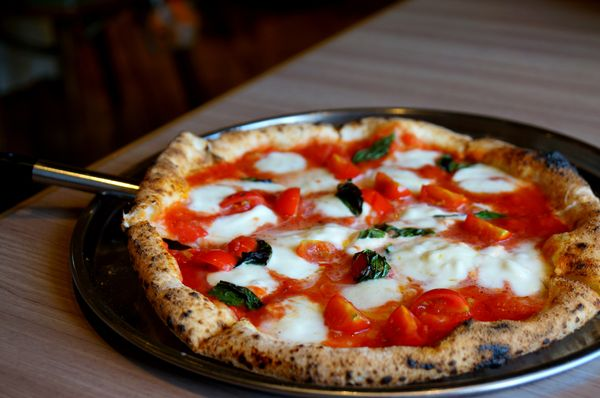
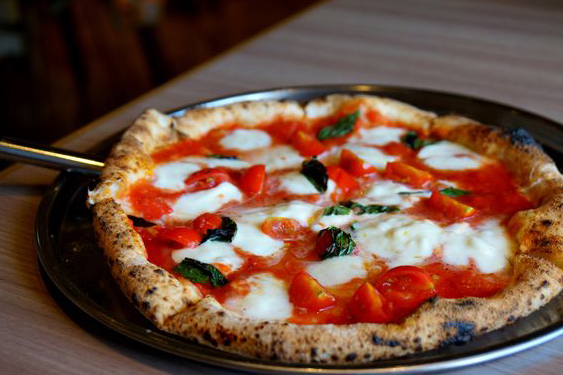
redimensionnement image

diff --git a/vue/recipeoftheday.php b/vue/recipeoftheday.php
@@ -6,7 +6,7 @@ echo"<div class='leftcolumn'>";
 foreach ($starrecipe as $data){
     echo"<div class='card'>
     <h2>".$data['nom_recettes']."</h2>
-    <div class='fakeimg'><img src=".$data['image_recettes']." alt=".$data['nom_recettes']." style=' background-size:100% auto ; height : 100%; width:100%; display:block'></div>
+    <div class='fakeimg'><img src=".$data['image_recettes']." alt=".$data['nom_recettes']." style=' background-size:100% auto ; height : 100%; width:auto; display:block'></div>
       <p>".$data['temps_recettes']."<p>
       <p>".$data['difficulte_recettes']."<p>
       <p>".$data['type_recettes']."<p>
@@ -18,7 +18,7 @@ foreach($otherrecipes as $data){
 
     echo"<div class='card'>
       <h3>".$data['nom_recettes']."</h3>
-      <div class='fakeimg'><img src=".$data['image_recettes']." alt=".$data['nom_recettes']." style=' background-size:100% auto ; height : 100%; width:100%; display:block'></div>      
+      <div class='fakeimg'><img src=".$data['image_recettes']." alt=".$data['nom_recettes']." style=' background-size:100% auto ; height : 100%; width:auto; display:block'></div>      
     </div>";
 }
 echo"</div>";
